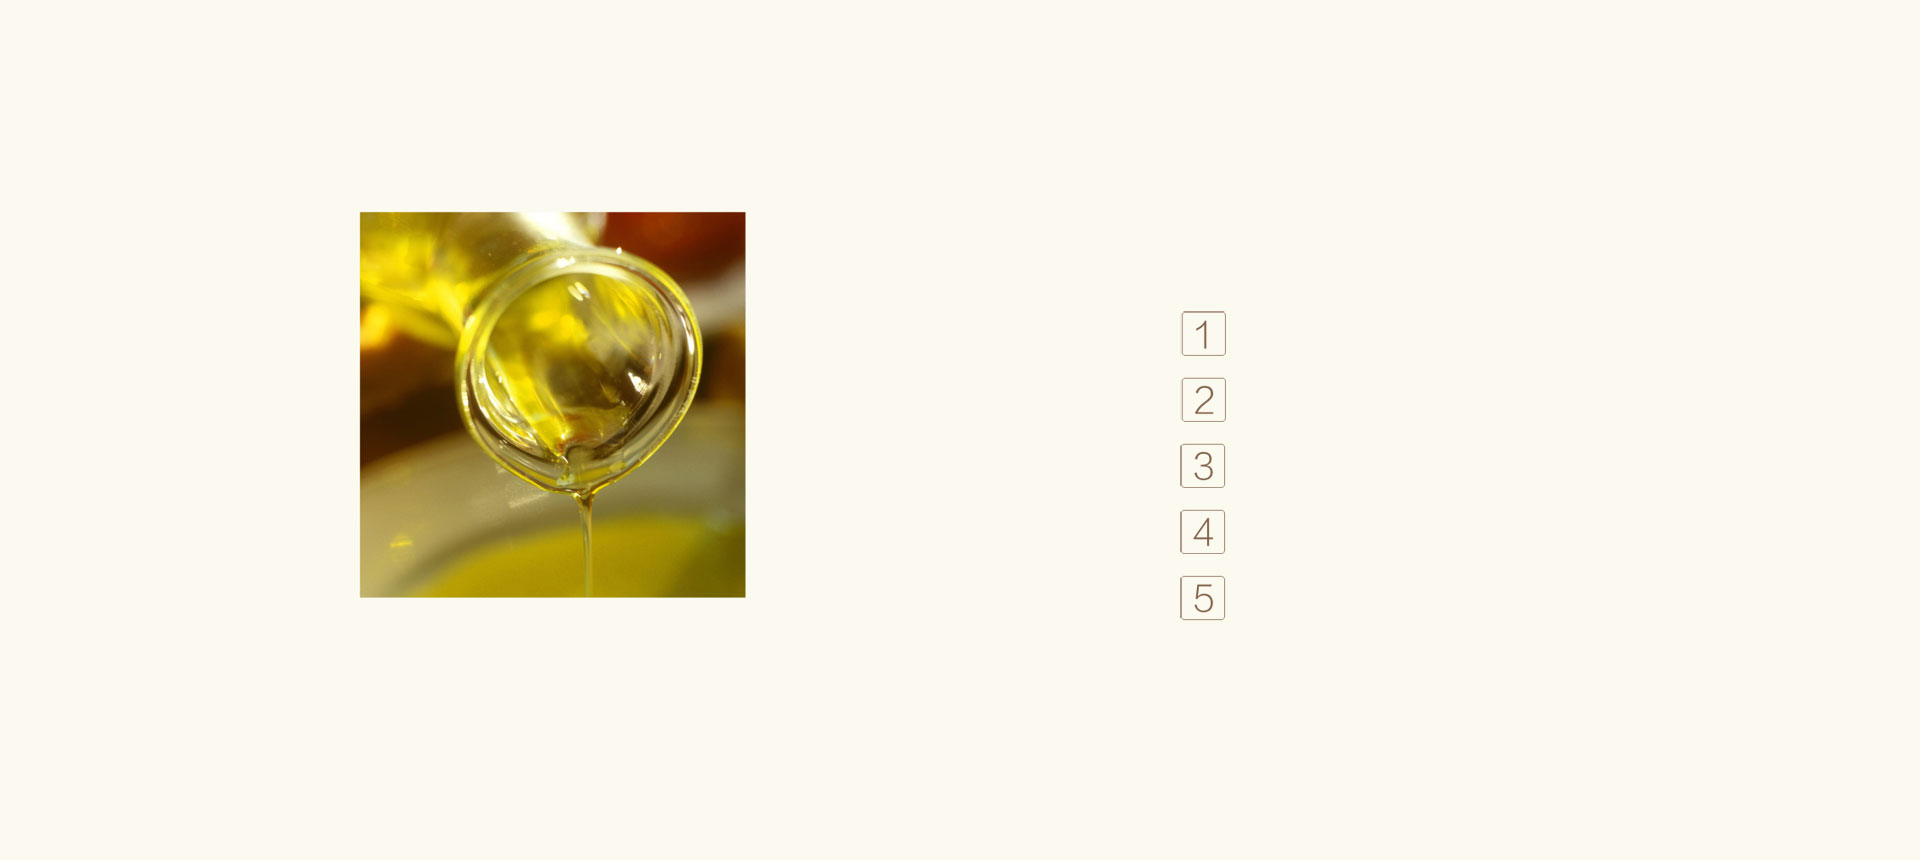
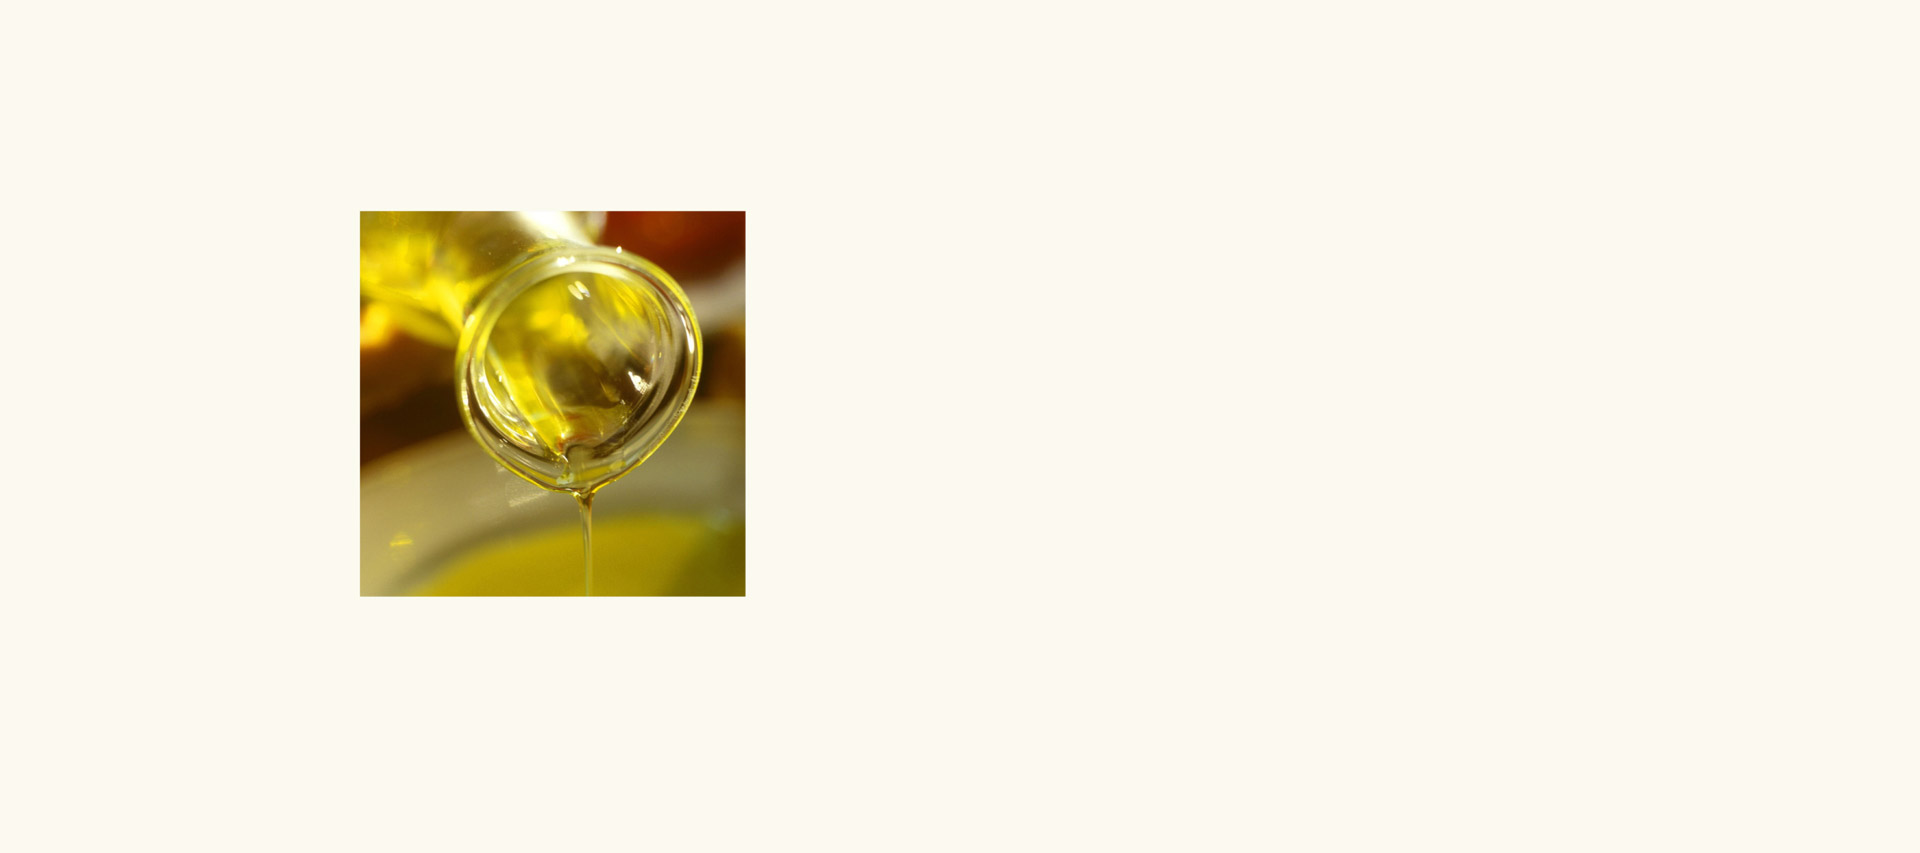
护发1,功效对齐修改 眼霜1，banner修改

diff --git a/runfangke-hufa1.html b/runfangke-hufa1.html
@@ -273,11 +273,13 @@
         <div class="sub-title sub-title2" data-sr="enter bottom over 0.5s and move 160px"></div>
         <div class="section-content">
             <h2 class="yu" style="font-size: 49px">润芳可生姜护发素的功效</h2>
-            <h4 class="yu" style="margin-top: 43px">平衡油脂，养护头皮</h4>
-            <h4 class="yu">养固头发，强健发根</h4>
-            <h4 class="yu">疏通毛囊，促进生长</h4>
-            <h4 class="yu">营养发质，修复损伤 </h4>
-            <h4 class="yu">强韧发丝，柔顺亮泽</h4>
+            <div style="background: url('images/hufa-imgnew.png') no-repeat 600px top;padding-bottom: 10px">
+                <h4 class="yu" style="margin-top: 0px">平衡油脂，养护头皮</h4>
+                <h4 class="yu">养固头发，强健发根</h4>
+                <h4 class="yu">疏通毛囊，促进生长</h4>
+                <h4 class="yu">营养发质，修复损伤 </h4>
+                <h4 class="yu">强韧发丝，柔顺亮泽</h4>
+            </div>
             <p class="yu" data-sr="enter bottom over 0.5s and move 160px">
                 氨基酸是人体不可缺少的成可生成蛋白质，氨基酸表面活性剂<br/>
                 是目前国际上相对高档的起泡成份，一般只使用在高端洗面奶<br/>

diff --git a/css/subpage.css b/css/subpage.css
@@ -1155,9 +1155,9 @@ p.yu{
     padding-top: 30px;
 }
 .runfangke-section1 .section-content .box1{
-    margin-top: 108px;
+    margin-top: 105px;
     width: 700px;
-    margin-left: 490px;
+    margin-left: 485px;
     text-align: center;
 }
 .runfangke-section1 .section-content .box{
@@ -1209,16 +1209,16 @@ p.yu{
     padding-top: 30px;
 }
 .hufa1-section3 h2{
-    margin-top: 85px;
+    margin-top: 65px;
     padding-left: 600px;
     margin-bottom: 30px;
 }
 .hufa1-section3 h4{
-    padding-left: 900px;
-    margin-bottom: 36px;
+    padding-left: 680px;
+    margin-bottom: 34px;
 }
 .hufa1-section3 p{
-    padding-left: 6px;
+    padding-left: 0;
 }
 .hufa1-section4{
     background-image: url("../images/hufa1-img5.jpg");
